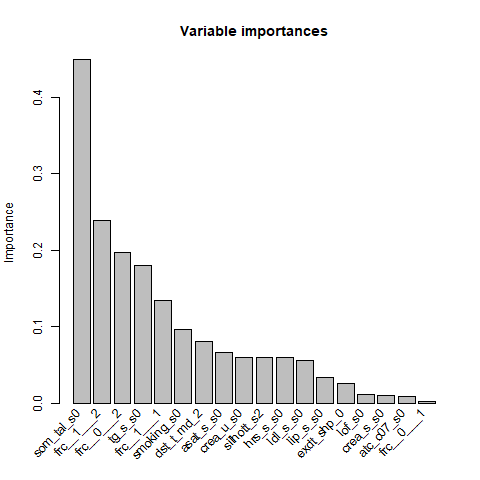
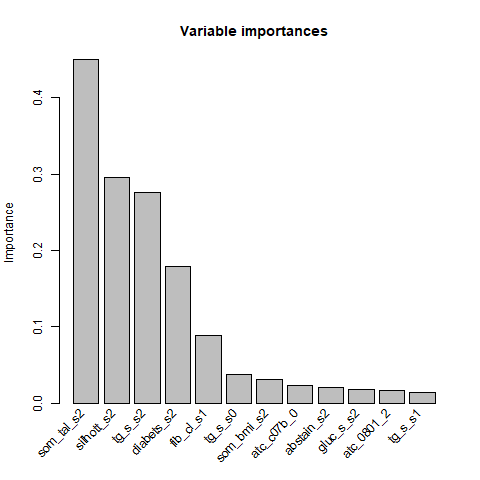
CHanged layout on shiny app and added ice plot code

Changed region(s): [[0.0625, 0.125, 0.9062, 0.9688], [0.0625, 0.3438, 0.0938, 0.375]]

diff --git a/src/scripts/app.css b/src/scripts/app.css
@@ -1,0 +1,4 @@
+.fea_imp {
+     width: 100%;
+     height: 100%;
+}
